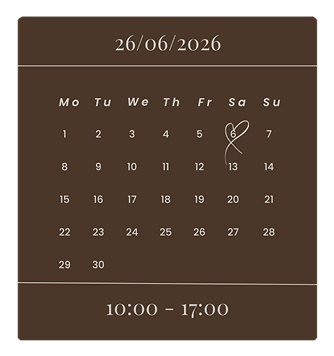
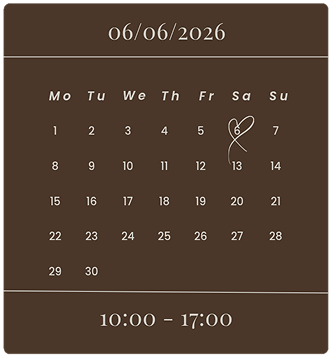
done

diff --git a/style.css b/style.css
@@ -104,7 +104,9 @@
 /* Greeting Section */
 .greeting {
     height: auto;
-    background-color: var(--secondary-background);
+    background-image: url('assets/img/brown-watercolor-leaf-background-aesthetic-autumn-season.jpg');
+    background-position: center;
+    background-size: cover;
     padding: 35px;
     color: var(--primary-background);
 }
@@ -115,6 +117,7 @@
     justify-content: center;
     align-items: center;
     text-align: center;
+    gap: 20px;
 }
 
 .greeting-text {
@@ -125,7 +128,7 @@
 
 .greeting-text h1 {
     font-family: "Playfair Display", sans-serif;
-    font-size: 16px;
+    font-size: 22px;
     font-weight: 600;
 }
 
@@ -183,6 +186,19 @@
 
 .wedding-event-card h2 {
     text-align: center;
+    position: relative;
+}
+
+.wedding-event-card::after {
+    content: "";
+    position: absolute;
+    background-color: var(--primary-background);
+    height: 2px;
+    width: 100%;
+    left: 0;
+    right: 0;
+    top: 65px;
+    margin: 0 auto;
 }
 
 .wedding-event-card-main {
@@ -268,3 +284,82 @@
     border-radius: 10px;
     text-align: center;
 }
+
+/* Footer Section */
+.footer {
+    background-color: var(--secondary-background);
+    color: var(--primary-background);
+    font-family: 'Poppins', sans-serif;
+    padding: 35px;
+}
+
+.footer-container, .footer-content{
+    display: flex;
+    flex-direction: column;
+    justify-content: center;
+    align-items: center;
+    gap: 20px;
+}
+
+.footer-container h1 {
+    font-family: 'Playfair Display', sans-serif;
+    font-size: 28px;
+    font-weight: 600;
+}
+
+.footer-content p {
+    font-size: 14px;
+    font-weight: 500;
+    text-align: center;
+}
+
+.footer-card{
+    display: flex;
+    justify-content: center;
+    align-items: center;
+    gap: 30px;
+    border: 3px solid var(--primary-background);
+    border-radius: 15px;
+    -webkit-border-radius: 15px;
+    -moz-border-radius: 15px;
+    -ms-border-radius: 15px;
+    -o-border-radius: 15px;
+    width: 100%;
+    padding: 10px 0;
+}
+
+.footer-card-text {
+    display: flex;
+    flex-direction: column;
+    gap: 10px;
+}
+
+.footer-card-text h2 {
+    font-size: 20px;
+    font-weight: 600;
+}
+
+.footer-card-text p {
+    text-align: left;
+    font-size: 14px;
+}
+
+.footer-card-text button {
+    font-family: 'Poppins', sans-serif;
+    font-weight: 600;
+    font-size: 14px;
+    color: var(--secondary-background);
+    background-color: var(--primary-background);
+    padding: 8px 16px;
+    border: 1px solid var(--primary-background);
+    border-radius: 10px;
+}
+
+.footer-content h3 {
+    font-weight: 600;
+    font-size: 14px;
+    text-align: center;
+}
+
+
+

diff --git a/index.html b/index.html
@@ -44,11 +44,13 @@
                         <h2>Dengan Penuh Rasa Syukur & Bahagia</h2>
                         <p>
                             Dengan memohon rahmat dan ridho Allah SWT, kami
-                            bermaksud menyelenggarakan acara pernikahan
-                            putra-putri kami. Merupakan suatu kehormatan dan
-                            kebahagiaan bagi kami apabila Bapak/Ibu/Saudara/i
-                            berkenan hadir untuk memberikan doa restu kepada
-                            kedua mempelai.
+                            Keluarga besar Ibu Kasma (almarhumah) & Bapak
+                            sulaiman serta keluarga besar Hj Mariajang
+                            (almarhumah) & Bapak Pandu bermaksud
+                            menyelenggarakan acara pernikahan putra-putri kami.
+                            Merupakan suatu kehormatan dan kebahagiaan bagi kami
+                            apabila Bapak/Ibu/Saudara/i berkenan hadir untuk
+                            memberikan doa restu kepada kedua mempelai.
                         </p>
                     </div>
                     <img src="assets/img/calender.png" alt="Calender" />
@@ -144,6 +146,31 @@
                         </div>
                     </div>
                     <!-- countdown End -->
+                </div>
+            </section>
+
+            <!-- Footer Section -->
+            <section class="footer">
+                <div class="footer-container">
+                    <h1>Tanda Kasih</h1>
+                    <div class="footer-content">
+                        <p>
+                            Doa restu Anda merupakan karunia yang sangat berarti
+                            bagi kami. Namun jika memberi adalah ungkapan tanda
+                            kasih, Anda dapat memberikan hadiah melalui:
+                        </p>
+                        <div class="footer-card">
+                            <img src="assets/img/bca.png" alt="bca-icons">
+                            <div class="footer-card-text">
+                                <h2>BCA</h2>
+                                <p><strong>Nomor Rekening: </strong><span id="rekening1"><br>7815553853</span></p>
+                                <p><strong>Atas Nama: </strong> <br> Sulis Siana</p>
+                                <button onclick="copyRekening('rekening1')" class="btn">Salin Rekening</button>
+                            </div>
+                        </div>
+                        <p>Terimakasih atas doa dan kehadiran anda.</p>
+                        <h3>Kami yang berbahagia,<br>Sulis Siana & Muhammad Yusuf</h3>
+                    </div>
                 </div>
             </section>
         </main>